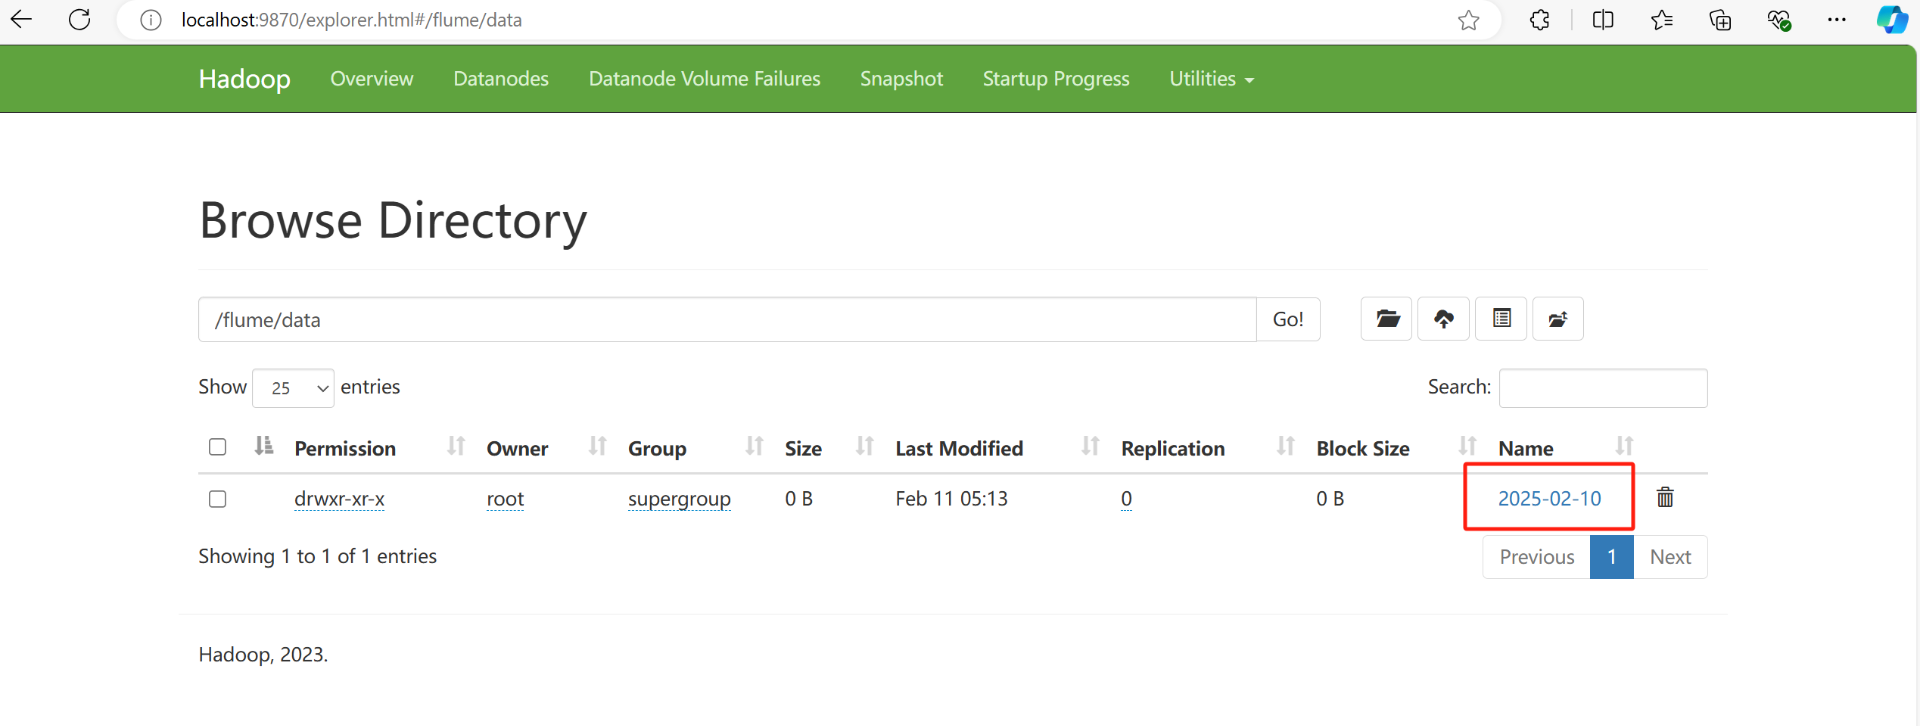
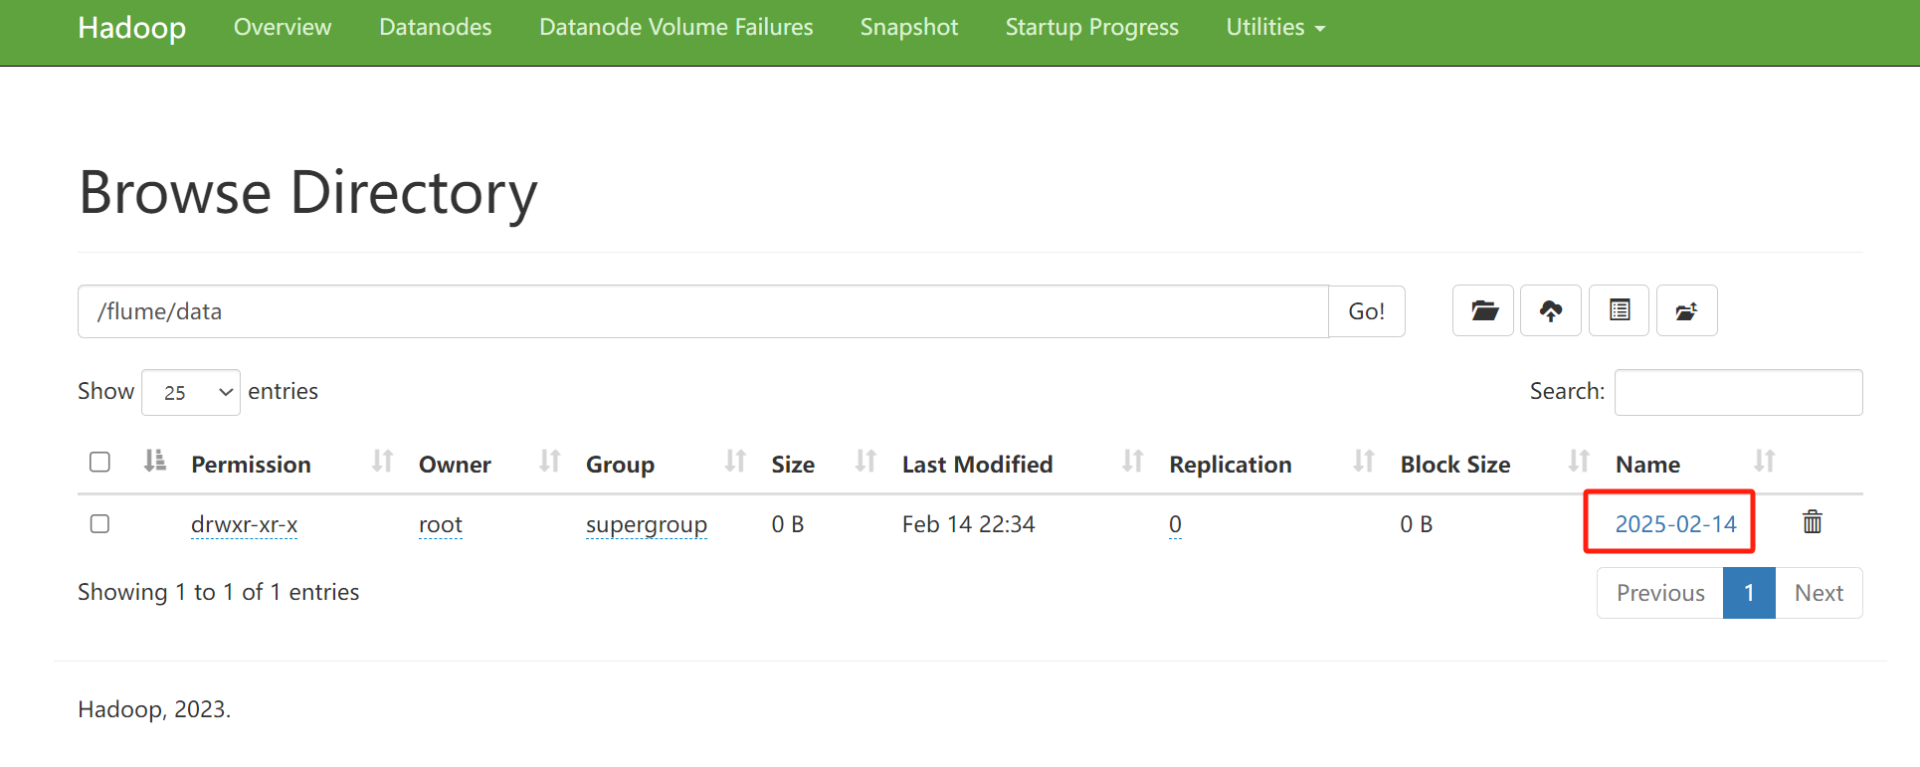
flume-kafka

diff --git a/kafka_zookeeper_flume.html b/kafka_zookeeper_flume.html
@@ -157,14 +157,14 @@
     <section class="bg-gradient-primary-to-secondary-light mt5 md5" id="awards">
         <div class="container px-5">
             <header>
-                <h2 id="awards-subtitle" style="font-size: 48px;"><i class="bi bi-award-fill"></i> 实验指南(八)：Zookeeper和Kafkak</h2>
+                <h2 id="awards-subtitle" style="font-size: 48px;"><i class="bi bi-award-fill"></i> 实验指南(九)：Zookeeper、Kafka和Flume</h2>
             </header>
 
             <div style="height: 64px;"></div>
 
             <div class="main-body" id="awards-md">
 
-                <h1 id="flink"><strong>Zookeeper和Kafkak</strong></h1>
+                <h1 id="flink"><strong>Zookeeper、Kafkak和Flume</strong></h1>
                 <div style="height: 32px;"></div>
                 <h2 id="1-7"><strong>1、Zookeeper（<a
                     href="https://zookeeper.apache.org/" target="_blank">官网</a>）</strong></h2>
@@ -243,7 +243,35 @@
                 </ul>
 
 
-                <h2 id="3minikubeflink"><strong>3、使用minikube部署Zookeeper与Kafka</strong></h2>
+
+
+
+                <h2 id="2flink"><strong>3、Flume（<a
+                    href="https://flume.apache.org/" target="_blank">官网</a>）</strong></h2>
+
+                <p>Flume是一个分布式的、可靠的、可用的服务，用于高效地收集、聚合和移动大量的日志数据。</p>
+                <img src="static/assets/img/hue_flume/flume_achi.png" alt="flume_achi" style="width: 100%; height: auto;">    
+                
+                <p><strong>（1）一个flume agent（事务）可以分成三部分</strong></p>
+                <ul>
+                    <li>源（Source）：用于从外部系统（如日志文件、网络流、数据库等）获取数据，并通过将获取到的数据封装成 Event 发送到 Flume 的后续组件。</li>
+                    <li>通道（Channel）：用于临时存储从 Source 接收到的事件，直到它们被 Flume 的 Sink 组件处理。</li>
+                    <li>接收器（Sink）：用于将事件从 Channel 发送到外部系统（例如 HDFS、Kafka、数据库等）的组件。Sink 会从 Channel 中读取事件，并根据配置将其写入到目标系统中。</li>
+                </ul>
+
+                <p><strong>（2）flume 的工作流程</strong></p>
+                <ul>
+                    <li>Source 从外部系统获取数据并将其转化为 Event。</li>
+                    <li>Channel 存储这些 Event，确保数据可靠传输。</li>
+                    <li>Sink 从 Channel 中读取 Event，并将其发送到外部存储或分析系统。</li>
+                </ul>
+  
+
+
+
+
+
+                <h2 id="3minikubeflink"><strong>4、使用minikube部署Zookeeper与Kafka</strong></h2>
                 <p><strong>（1）向minikube中导入所需的镜像</strong></p>
                 <pre><code>minikube image load bitnami/kafka:latest
 minikube image load zookeeper:latest
@@ -343,7 +371,11 @@ Hello Zookeeper
 <img src="static/assets/img/kafka_zookeeper/zookeeper3.png" alt="kafka_zookeeper3" style="width: 100%; height: auto;">
 
                 <br><br>
-                <h2 id="3minikubeflink"><strong>4、kafka-tools的使用（Offset Explorer）</strong></h2>
+
+
+
+
+                <!-- <h2 id="3minikubeflink"><strong>4、kafka-tools的使用（Offset Explorer）</strong></h2>
 
                 <ul>
                     <li>先在命令行配置端口转发</li>
@@ -371,6 +403,158 @@ Hello Zookeeper
                     <li>可以看到我们刚刚所创建的topic</li>
                 </ul>
 <img src="static/assets/img/kafka_zookeeper/kafka_result.png" alt="kafka_result" style="width: 100%; height: auto;">
+
+<br><br> -->
+                <h2 id="1"><strong>5、使用minikube部署flume</strong></h2>
+                <p><strong>（1）向minikube中导入所需的镜像</strong></p>
+                <pre><code>minikube image load flume:latest
+</code></pre>
+                <ul>
+                    <li>进入minikube查看是否导入</li>
+                </ul>
+                <pre><code>minikube ssh
+docker images
+</code></pre>
+<img src="static/assets/img/hue_flume/flume_load.png" alt="load" style="width: 100%; height: auto;">
+
+                <p><strong>（2）由于这里展示的flume是集成到Hadoop和kafka中的，kafka在之前的实验中已经配置过了，因此需要先使用hadoop-cluster.yaml文件部署Hadoop，部署后查看pod状态验证其是否正常运行</strong></p>
+                <pre><code>kubectl apply -f hadoop-cluster.yaml
+kubectl get pods
+</code></pre>
+<img src="static/assets/img/hue_flume/flume_hadoop.png" alt="hadoop" style="width: 100%; height: auto;">
+
+
+                <ul>
+                    <li>由于flume的日志是写在hdfs上的，因此，我们到hdfs上预先为其建立一个文件夹以存放flume日志</li>
+                </ul>
+                <ul>
+                    <li>我们先布置hdfs的端口转发，以在浏览器中访问到hdfs</li>
+                </ul>
+                <pre><code>kubectl port-forward svc/namenode 9870:9870
+</code></pre>
+<img src="static/assets/img/hue_flume/flume_port.png" alt="hadoop_port" style="width: 100%; height: auto;">
+
+                <ul>
+                    <li>在浏览器中输入如下地址</li>
+                </ul>
+                <a href="http://localhost:9870/" target="_blank">http://localhost:9870/</a>
+<img src="static/assets/img/hue_flume/flume_webui1.png" alt="hadoop_webui1" style="width: 100%; height: auto;">
+
+                <ul>
+                    <li>点击这里可以进入文件管理界面</li>
+                </ul>
+<img src="static/assets/img/hue_flume/flume_webui2.png" alt="hadoop_webui2" style="width: 100%; height: auto;">
+
+
+                <ul>
+                    <li>接着我们回到命令行，进入namenode所在的pod，同样地，这里的namenode-764bfd689f-85pd7需替换为自己的pod名</li>
+                </ul>
+                <pre><code>kubectl exec -it namenode-764bfd689f-85pd7 -- bash
+</code></pre>
+
+                <ul>
+                    <li>而后在hdfs上创建文件夹并更改其权限</li>
+                </ul>
+                <pre><code>hdfs dfs -mkdir -p /flume/data
+hdfs dfs -chmod 777 /flume
+</code></pre>
+
+<img src="static/assets/img/hue_flume/flume_create.png" alt="flume_create" style="width: 100%; height: auto;">
+
+                <p><strong>（3）使用flume-deployment.yaml文件部署flume，并查看pod状态验证其是否正常运行</strong></p>
+                <pre><code>kubectl apply -f flume-deployment.yaml
+kubectl get pods
+</code></pre>
+
+<img src="static/assets/img/hue_flume/flume_apply.png" alt="flume_apply" style="width: 100%; height: auto;">
+
+
+                <ul>
+                    <li>创建完毕后我们可以进入flume所在的pod，以验证其是否能与hdfs连接，图中可以看到我们刚刚为flume建立的文件夹/flume/data</li>
+                </ul>
+                <pre><code>hdfs dfs -ls /
+</code></pre>
+
+<img src="static/assets/img/hue_flume/flume_test.png" alt="flume_test" style="width: 100%; height: auto;">
+
+                <p><strong>（4）测试flume的功能</strong></p>
+                <ul>
+                    <li>我们先打开一个新的命令行窗口，并进入kafka所在的pod，同样地，这里的kafka-9b4f47bd5-6z7l7需替换为实际的pod名称</li>
+                </ul>
+                <pre><code>kubectl exec -it kafka-9b4f47bd5-6z7l7 -- bash
+</code></pre>
+
+                <ul>
+                    <li>然后创建一个新的topic用来接收日志</li>
+                </ul>
+                <pre><code>kafka-topics.sh --create --topic logs-topic --bootstrap-server localhost:9092 --partitions 1 --replication-factor 1
+</code></pre>
+<img src="static/assets/img/hue_flume/flume_kafka_topic.png" alt="flume_kafka_wait" style="width: 100%; height: auto;">
+
+                <ul>
+                    <li>而后启动kafka消费者，放在这等待flume的消息</li>
+                </ul>
+                <pre><code>kafka-console-consumer.sh --topic logs-topic --bootstrap-server localhost:9092 --from-beginning
+</code></pre>
+
+<img src="static/assets/img/hue_flume/flume_kafka_wait.png" alt="flume_kafka_wait" style="width: 100%; height: auto;">
+
+                <ul>
+                    <li>由于在flume的部署文件中，我们已经将/var/log/app/设置为了它的监听目录</li>
+                </ul>
+<img src="static/assets/img/hue_flume/flume_deployment.png" alt="flume_write" style="width: 100%; height: auto;">
+
+                <ul>
+                    <li>因此然后我们回到刚刚部署完flume的命令行，在flume所在的pod中写入一个文件到它所监听的这个目录下</li>
+                </ul>
+                <pre><code>for i in {1..5}; do
+   echo "Text Test $i $(date '+%Y-%m-%d %H:%M:%S')" >> /var/log/app/text_test.log
+done
+</code></pre>
+
+<img src="static/assets/img/hue_flume/flume_write.png" alt="flume_write" style="width: 100%; height: auto;">
+
+                <ul>
+                    <li>接着我们切换到刚刚kafka消费者所在的窗口，可以看到我们刚刚写入的消息</li>
+                </ul>
+<img src="static/assets/img/hue_flume/flume_kafka_write.png" alt="flume_write" style="width: 100%; height: auto;">
+                
+
+
+                <ul>
+                    <li>而后我们来到hdfs上存放flume数据的对应目录下，可以看到它已经自动生成了以日期命名的子文件夹</li>
+                </ul>
+
+<img src="static/assets/img/hue_flume/flume_date.png" alt="flume_date" style="width: 100%; height: auto;">
+
+                <ul>
+                    <li>我们进入这个文件夹，可以看到flume写入hdfs的.tmp临时文件</li>
+                </ul>
+
+<img src="static/assets/img/hue_flume/flume_tmp.png" alt="flume_tmp" style="width: 100%; height: auto;">
+
+                <ul>
+                    <li>这里我们需要静待一会，等待它写入完毕，此时.tmp后缀会消失</li>
+                </ul>
+
+<img src="static/assets/img/hue_flume/flume_events.png" alt="flume_events" style="width: 100%; height: auto;">
+
+
+                <ul>
+                    <li>而后我们回到命令行中的flume所在的pod中，从hdfs上查看flume写入的日志文件，这里的/2025-02-14/events-.1739543662388需要替换为实际的文件</li>
+                </ul>
+                <pre><code>hdfs dfs -cat /flume/data/2025-02-14/events-.1739543662388
+</code></pre>
+<img src="static/assets/img/hue_flume/flume_cat1.png" alt="flume_get" style="width: 100%; height: auto;">
+
+
+                <ul>
+                    <li>接下来我们可以用之前我们手动写入flume所监听的文件夹的文件与flume监听后写入hdfs的文件做对比，是完全一致的</li>
+                </ul>
+                <pre><code>cat /var/log/app/text_test.log
+</code></pre>
+
+<img src="static/assets/img/hue_flume/flume_cat2.png" alt="flume_cat2" style="width: 100%; height: auto;">
 
 
 

diff --git a/expriment.html b/expriment.html
@@ -203,20 +203,20 @@
 
                 <div style="height: 64px;"></div>
 
-                <a href="kafka_zookeeper.html">
-                    <h2 id="kafka_zookeeper"><strong>实验指南(八)：Zookeeper和Kafka</strong></h2>
-                </a>
-
-                <div style="height: 64px;"></div>
-
                 <a href="elasticsearch_kibana.html">
-                    <h2 id="elasticsearch_kibana"><strong>实验指南(九)：Elasticsearch和Kibana</strong></h2>
+                    <h2 id="elasticsearch_kibana"><strong>实验指南(八)：Elasticsearch和Kibana</strong></h2>
                 </a>
 
                 <div style="height: 64px;"></div>
 
-                <a href="hue_flume.html">
-                    <h2 id="hue_flume"><strong>实验指南(十)：Hue和Flume</strong></h2>
+                <a href="kafka_zookeeper_flume.html">
+                    <h2 id="kafka_zookeeper_flume"><strong>实验指南(九)：Zookeeper、Kafka和Flume</strong></h2>
+                </a>
+
+                <div style="height: 64px;"></div>
+
+                <a href="hue.html">
+                    <h2 id="hue"><strong>实验指南(十)：Hue</strong></h2>
                 </a>
                 
 

diff --git a/hue.html b/hue.html
@@ -157,14 +157,14 @@
     <section class="bg-gradient-primary-to-secondary-light mt5 md5" id="awards">
         <div class="container px-5">
             <header>
-                <h2 id="awards-subtitle" style="font-size: 48px;"><i class="bi bi-award-fill"></i> 实验指南(十)：Hue和Flume
+                <h2 id="awards-subtitle" style="font-size: 48px;"><i class="bi bi-award-fill"></i> 实验指南(十)：Hue
                 </h2>
             </header>
 
             <div style="height: 64px;"></div>
 
             <div class="main-body" id="awards-md">
-                <h1 id="wsl"><strong>一、Hue（<a href="https://gethue.com/" target="_blank">官网</a>）</strong></h1>
+                <h1 id="wsl"><strong>Hue（<a href="https://gethue.com/" target="_blank">官网</a>）</strong></h1>
 
                 <h2 id="1"><strong>1、简介</strong></h2>
                 <p>Hue 提供一个基于浏览器的用户界面，用户可以通过它与 Hadoop 系统进行交互，执行查询、管理数据和配置系统等任务。它使得大数据的使用者，尤其是非技术用户，可以通过图形化的方式完成各种操作，降低了学习和使用的门槛。</p>

diff --git a/elasticsearch_kibana.html b/elasticsearch_kibana.html
@@ -189,7 +189,7 @@
     <section class="bg-gradient-primary-to-secondary-light mt5 md5" id="awards">
         <div class="container px-5">
             <header>
-                <h2 id="awards-subtitle" style="font-size: 48px;"><i class="bi bi-award-fill"></i> 实验指南(九)：Elasticsearch和Kibana</h2>
+                <h2 id="awards-subtitle" style="font-size: 48px;"><i class="bi bi-award-fill"></i> 实验指南(八)：Elasticsearch和Kibana</h2>
             </header>
 
             <div style="height: 64px;"></div>
